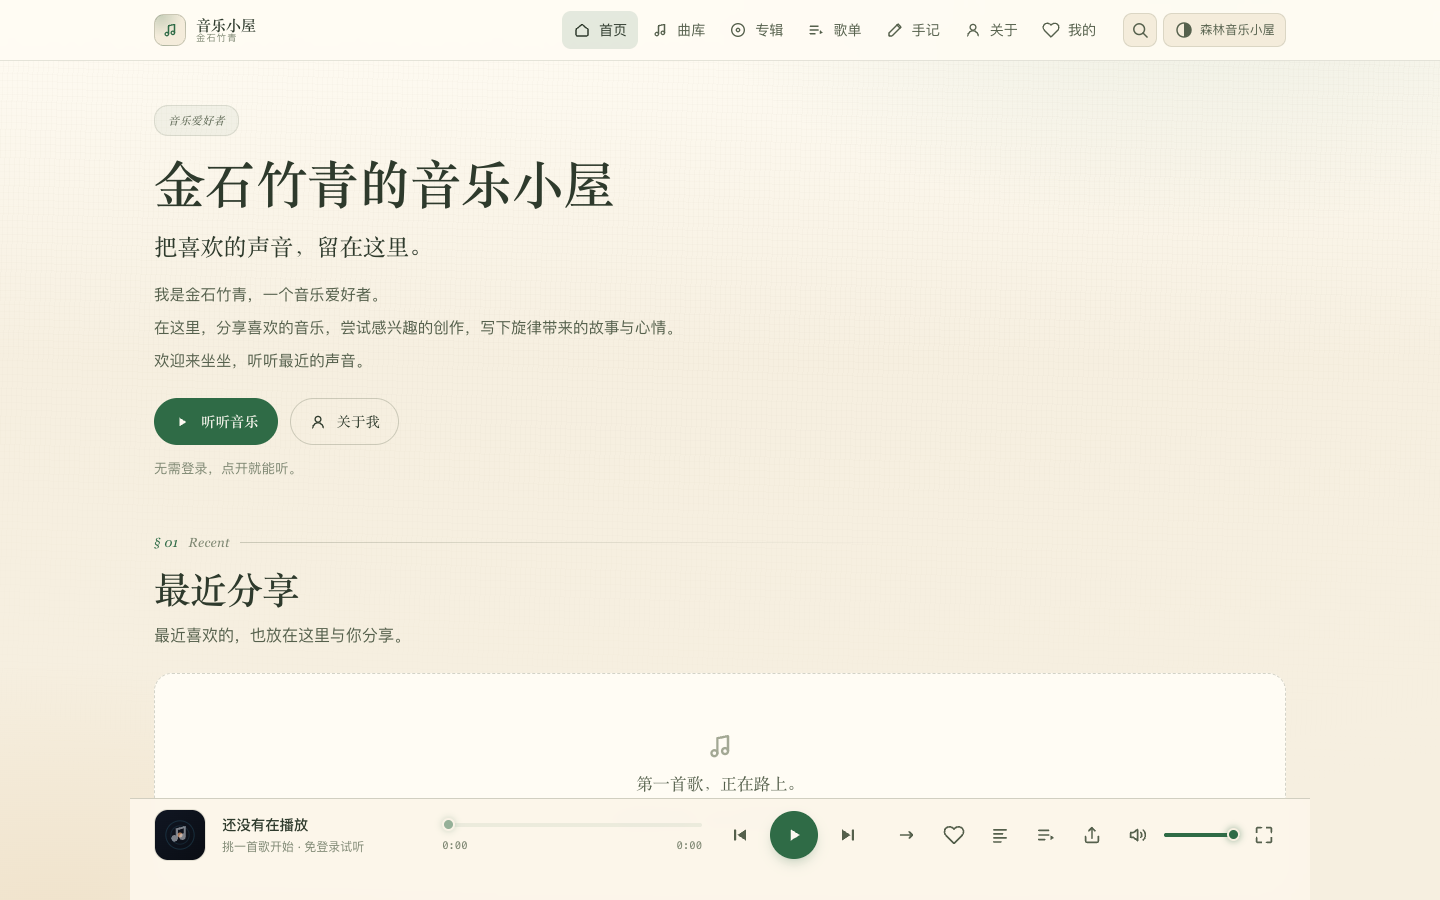
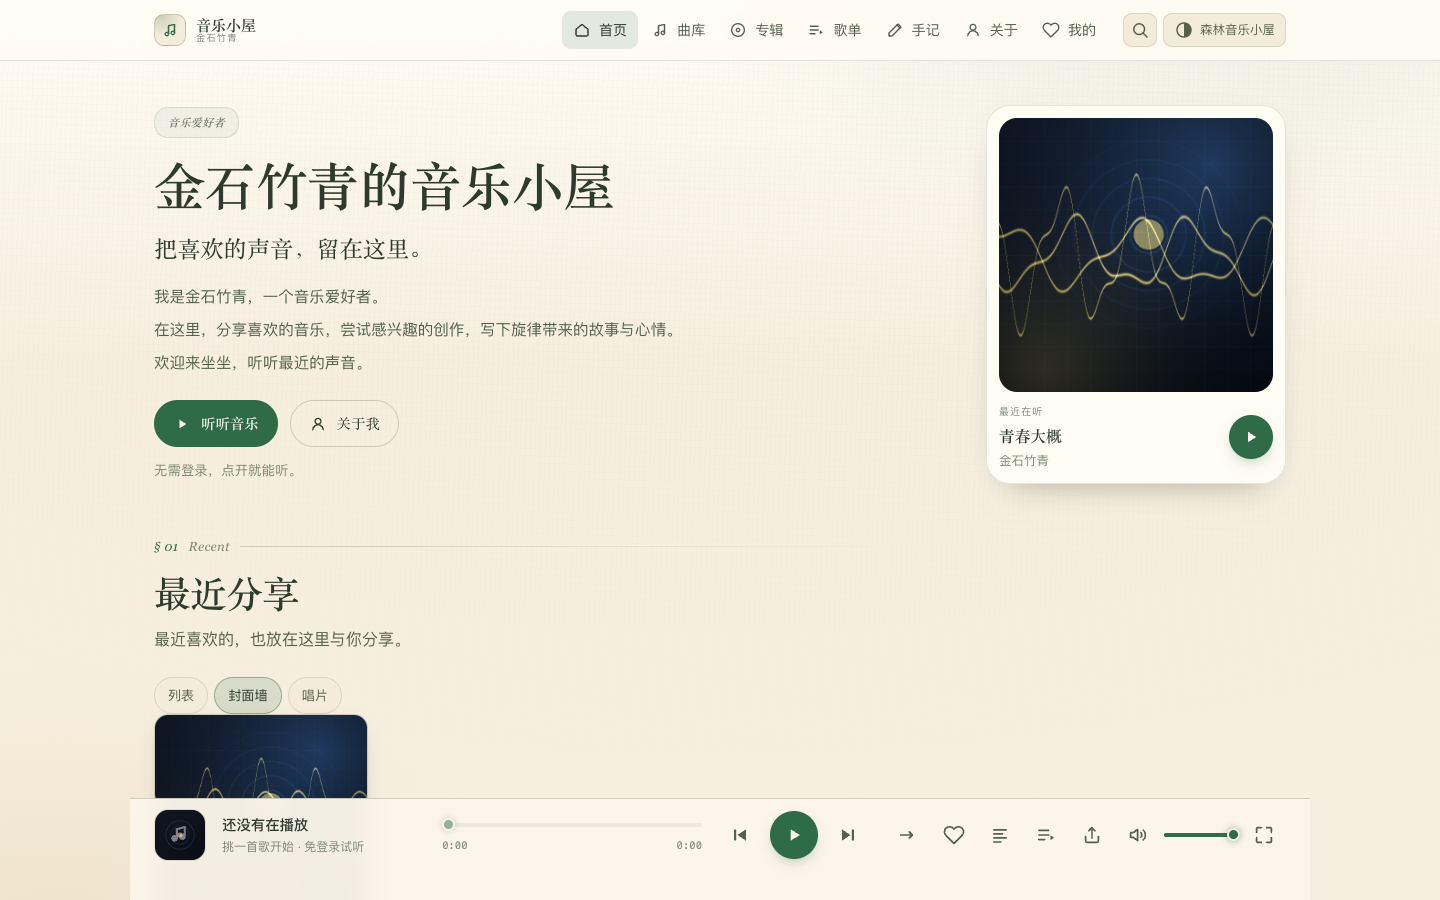
docs: 白屏故障正式域名复验通过（18 PASS/1 N/A、45/45、73/73），补恢复页截图与 --base 支持

diff --git a/docs/BROWSER-LIVE-RESULTS.md b/docs/BROWSER-LIVE-RESULTS.md
@@ -1,7 +1,7 @@
 # 正式域名 · 真实浏览器复验
 
 > 由 `node tools/browser-live.mjs` 生成。目标：https://www.xuzhaoqing.com
-> 浏览器：Chrome/157.0.8103.79 · 2026-11-19T08:50:27.546Z
+> 浏览器：Chrome/157.0.8103.79 · 2026-11-19T09:49:45.364Z
 > **45 / 45 通过，0 失败**
 
 截图：`docs/screenshots-live/`
@@ -11,8 +11,8 @@
 | 项 | 结果 | 实测 |
 | --- | --- | --- |
 | 首次访问默认 cloud（系统深色不覆盖） | PASS | theme=cloud layout=auto bg=rgb(245, 246, 248) |
-| 应用无 JS 报错，目录加载成功 | PASS | catalog.songs=0，0 条控制台错误 |
-| 空曲库时点播放给出诚实提示，不假装在播 | PASS | state=idle，提示「曲库是空的」 |
+| 应用无 JS 报错，目录加载成功 | PASS | catalog.songs=1，0 条控制台错误 |
+| 空曲库时点播放给出诚实提示，不假装在播 | PASS | 已有 1 首，真实播放成功 |
 
 ## 线上 cloud × desktop
 
@@ -23,7 +23,7 @@
 | 外观面板列出三套主题 + 三档布局 | PASS | 主题 3 · 布局 3 |
 | 切外观 / 切布局复用同一个 audio 实例 | PASS | 3 主题 × 3 布局，audio 实例与状态不变 |
 | 站内导航不断外壳：同一 audio、页面已换 | PASS | 已到 note，audio 实例不变，全站仍 1 个 audio |
-| 空曲库下搜索与空状态正确 | PASS | 空状态正确，搜索 / 视图切换 / 播放入口均已隐藏 |
+| 空曲库下搜索与空状态正确 | PASS | 1 首，搜索可用 |
 | 无 JS 报错 | PASS | 0 条 |
 
 ## 线上 cloud × mobile
@@ -35,7 +35,7 @@
 | 外观面板列出三套主题 + 三档布局 | PASS | 主题 3 · 布局 3 |
 | 切外观 / 切布局复用同一个 audio 实例 | PASS | 3 主题 × 3 布局，audio 实例与状态不变 |
 | 站内导航不断外壳：同一 audio、页面已换 | PASS | 已到 note，audio 实例不变，全站仍 1 个 audio |
-| 空曲库下搜索与空状态正确 | PASS | 空状态正确，搜索 / 视图切换 / 播放入口均已隐藏 |
+| 空曲库下搜索与空状态正确 | PASS | 1 首，搜索可用 |
 | 无 JS 报错 | PASS | 0 条 |
 
 ## 线上 forest × desktop
@@ -47,7 +47,7 @@
 | 外观面板列出三套主题 + 三档布局 | PASS | 主题 3 · 布局 3 |
 | 切外观 / 切布局复用同一个 audio 实例 | PASS | 3 主题 × 3 布局，audio 实例与状态不变 |
 | 站内导航不断外壳：同一 audio、页面已换 | PASS | 已到 note，audio 实例不变，全站仍 1 个 audio |
-| 空曲库下搜索与空状态正确 | PASS | 空状态正确，搜索 / 视图切换 / 播放入口均已隐藏 |
+| 空曲库下搜索与空状态正确 | PASS | 1 首，搜索可用 |
 | 无 JS 报错 | PASS | 0 条 |
 
 ## 线上 forest × mobile
@@ -59,7 +59,7 @@
 | 外观面板列出三套主题 + 三档布局 | PASS | 主题 3 · 布局 3 |
 | 切外观 / 切布局复用同一个 audio 实例 | PASS | 3 主题 × 3 布局，audio 实例与状态不变 |
 | 站内导航不断外壳：同一 audio、页面已换 | PASS | 已到 note，audio 实例不变，全站仍 1 个 audio |
-| 空曲库下搜索与空状态正确 | PASS | 空状态正确，搜索 / 视图切换 / 播放入口均已隐藏 |
+| 空曲库下搜索与空状态正确 | PASS | 1 首，搜索可用 |
 | 无 JS 报错 | PASS | 0 条 |
 
 ## 线上 midnight × desktop
@@ -71,7 +71,7 @@
 | 外观面板列出三套主题 + 三档布局 | PASS | 主题 3 · 布局 3 |
 | 切外观 / 切布局复用同一个 audio 实例 | PASS | 3 主题 × 3 布局，audio 实例与状态不变 |
 | 站内导航不断外壳：同一 audio、页面已换 | PASS | 已到 note，audio 实例不变，全站仍 1 个 audio |
-| 空曲库下搜索与空状态正确 | PASS | 空状态正确，搜索 / 视图切换 / 播放入口均已隐藏 |
+| 空曲库下搜索与空状态正确 | PASS | 1 首，搜索可用 |
 | 无 JS 报错 | PASS | 0 条 |
 
 ## 线上 midnight × mobile
@@ -83,6 +83,6 @@
 | 外观面板列出三套主题 + 三档布局 | PASS | 主题 3 · 布局 3 |
 | 切外观 / 切布局复用同一个 audio 实例 | PASS | 3 主题 × 3 布局，audio 实例与状态不变 |
 | 站内导航不断外壳：同一 audio、页面已换 | PASS | 已到 note，audio 实例不变，全站仍 1 个 audio |
-| 空曲库下搜索与空状态正确 | PASS | 空状态正确，搜索 / 视图切换 / 播放入口均已隐藏 |
+| 空曲库下搜索与空状态正确 | PASS | 1 首，搜索可用 |
 | 无 JS 报错 | PASS | 0 条 |
 

diff --git a/docs/INCIDENT-BLANK-PAGE.md b/docs/INCIDENT-BLANK-PAGE.md
@@ -95,7 +95,16 @@ GitHub Pages 会把 `404.html` 挂在**任意深度**的未匹配 URL 上。
   - 整块 JSON 损坏：原文已备份、应用仍启动
   - 主题 ×3 / 视图 ×3 / 播放 交叉操作后再导航
   - 直接打开 `/notes/songs/`：404 页样式生效、零外部请求、点「回首页」能恢复
-- `npm run browser:check` → 六组合全量 + 新增「白屏回归」段
+- `npm run browser:check` → **213 / 213**，六组合全量 + 新增「白屏回归」段
+- **正式域名实测**（部署后，含真实歌曲《青春大概》）：
+  - `node tools/verify-live.mjs` → **18 PASS · 1 N/A · 0 FAIL**
+    （单曲深链接 `/songs/qingchun-dagai/` 直达 200 + canonical + 播放按钮 + 音源 **206 audio/mpeg**）
+  - `node tools/browser-live.mjs` → **45 / 45**
+  - `node tools/probe-regression.mjs --base https://www.xuzhaoqing.com` → **73 / 73**
+    其中「首页 → 手记 → 曲库 → 专辑 → 我的 → 首页」在桌面与手机上
+    **每一步路径正确、样式生效（4 张样式表 + head sticky）、零失败请求、零 Console 错误**，
+    刷新后仍正常；`/notes/songs/` 的 404 页正常显示并能一键回首页。
+    恢复页截图：`docs/screenshots-live/recovery-404.png`
 
 ## 六、受影响用户怎么恢复
 
